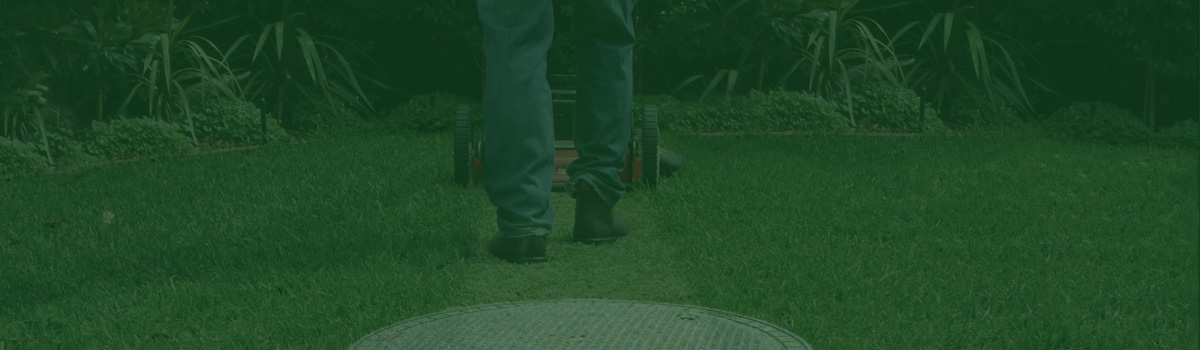
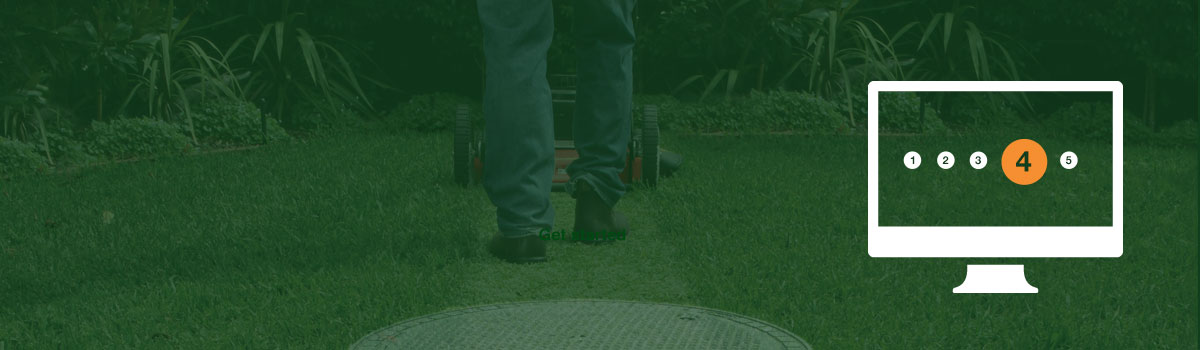
Graf fixes

Changed region(s): [[0.7092, 0.2286, 0.9558, 0.8571], [0.4317, 0.6571, 0.5242, 0.6857]]

diff --git a/brand-pages/less/brand-pages/graf/graf.less b/brand-pages/less/brand-pages/graf/graf.less
@@ -29,47 +29,55 @@ div.brand-pages{
 		@media (min-width: 768px){
 			margin-bottom: 60px;
 		}
-	}
 
 	.white {
 		color: #ffffff;
 	}
+
 	.half {
 		margin-bottom: 30px;	
 	}
+
 	.widget-logo{
 		padding: 0;
 	}
+
 	.discover {
-		background-color: #113e1d;
+		border:solid 1px;
+		background-color: #113e1d; 
+		padding-bottom: 30px;
 		h1 {
 			font-size: 30px;
-			color: white;
+			color: #ffffff;
 			font-weight: 700;
-			max-width: 360px;
 			margin: 0 auto;
-			margin-bottom: 30px;
-			margin-top: 30px;
+			margin:10px;
+			
+			
 			text-align: center;
 			@media (min-width: @screen-sm){
 				max-width: 100%;
-				text-align: left;				
+				text-align: center;
+				margin-bottom: 30px;
+				margin-top: 30px;		
 			}
-			@media (min-width: @screen-md){
-				padding-left: 34%;
-			}
-		p {
-			text-align: center;
-			color: white;
-			max-width: 445px;
-			margin-bottom: 10px;
-			@media (min-width: @screen-sm){
-				text-align: left;
-			}
+		}
+		.rte {
+				p {
+					font-size: 18px;
+					line-height: 24px;
+					font-weight: 500;
+					color: #ffffff;
+					margin: 20px;
+					@media (min-width: @screen-sm){
+						text-align: center;
+
+					}
+				}
 		}
 	}
 }
-	
+
 	.graf-video{
 		margin-bottom: 40px;
 		.widget-video{
@@ -109,17 +117,17 @@ div.brand-pages{
 				.label{
 					text-transform: uppercase;;
 					font-weight: bold;
-				    font-size: 15px;
-				    position: absolute;
-				    left: 50%;
-				    bottom: -34px;
-				    transform: translateX(-50%);
-				    @media (min-width: @screen-sm){
+					font-size: 15px;
+					position: absolute;
+					left: 50%;
+					bottom: -34px;
+					transform: translateX(-50%);
+					@media (min-width: @screen-sm){
 						font-size: 15px;
-				    }
-				    @media (min-width: @screen-md){
-				    	font-size: 18px;
-				    }
+					}
+					@media (min-width: @screen-md){
+						font-size: 18px;
+					}
 				}
 			}
 		}
@@ -199,10 +207,10 @@ div.brand-pages{
 			font-size: 18px;
 			@media (min-width: @screen-sm){
 				margin-top: 0px;
-      }
-      @media (min-width: @screen-md){
-      	margin-top: 60px;
-      }
+			}
+			@media (min-width: @screen-md){
+				margin-top: 60px;
+			}
 		}
 		p {
 			color: #1d1d1d;
@@ -248,9 +256,9 @@ div.brand-pages{
 			padding-bottom: 15px;
 			&.carousel{
 				img { width:165px;
-					}
-			 .slick-slider{ 
-				 	.slick-slide{
+				}
+				.slick-slider{ 
+					.slick-slide{
 						padding: 0 15px;
 						@media (min-width: @screen-sm){
 							padding: 0 38px;
@@ -358,7 +366,6 @@ div.brand-pages{
 		}
 	}
 	.visit-website {
-		border:solid 1px;
 		margin-top: 66px;
 		margin-bottom: 40px;
 		.widget-html-image{
@@ -366,7 +373,6 @@ div.brand-pages{
 				margin: 0;
 			}
 			.rte{
-				border:solid 1px;
 				padding: 30px 0;
 				color: white;
 				background: #113e1d;
@@ -388,8 +394,8 @@ div.brand-pages{
 				font-size: 32px;
 				font-weight: 700;
 				@media (min-width: @screen-sm){
-			    	margin-top: -15px;				
-			    	font-size: 30px;
+					margin-top: -15px;				
+					font-size: 30px;
 				}
 			}
 			p {

diff --git a/brand-pages/css/brand-pages/graf.css b/brand-pages/css/brand-pages/graf.css
@@ -33,48 +33,46 @@ div.brand-pages .container-fluid {
     margin-bottom: 60px;
   }
 }
-div.brand-pages .white {
+div.brand-pages .container-fluid .white {
   color: #ffffff;
 }
-div.brand-pages .half {
+div.brand-pages .container-fluid .half {
   margin-bottom: 30px;
 }
-div.brand-pages .widget-logo {
+div.brand-pages .container-fluid .widget-logo {
   padding: 0;
 }
-div.brand-pages .discover {
+div.brand-pages .container-fluid .discover {
+  border: solid 1px;
   background-color: #113e1d;
+  padding-bottom: 30px;
 }
-div.brand-pages .discover h1 {
+div.brand-pages .container-fluid .discover h1 {
   font-size: 30px;
-  color: white;
+  color: #ffffff;
   font-weight: 700;
-  max-width: 360px;
   margin: 0 auto;
-  margin-bottom: 30px;
-  margin-top: 30px;
+  margin: 10px;
   text-align: center;
 }
 @media (min-width: 768px) {
-  div.brand-pages .discover h1 {
+  div.brand-pages .container-fluid .discover h1 {
     max-width: 100%;
-    text-align: left;
+    text-align: center;
+    margin-bottom: 30px;
+    margin-top: 30px;
   }
 }
-@media (min-width: 992px) {
-  div.brand-pages .discover h1 {
-    padding-left: 34%;
-  }
-}
-div.brand-pages .discover h1 p {
-  text-align: center;
-  color: white;
-  max-width: 445px;
-  margin-bottom: 10px;
+div.brand-pages .container-fluid .discover .rte p {
+  font-size: 18px;
+  line-height: 24px;
+  font-weight: 500;
+  color: #ffffff;
+  margin: 20px;
 }
 @media (min-width: 768px) {
-  div.brand-pages .discover h1 p {
-    text-align: left;
+  div.brand-pages .container-fluid .discover .rte p {
+    text-align: center;
   }
 }
 div.brand-pages .graf-video {
@@ -375,7 +373,6 @@ div.brand-pages .downloads .widget-big-button a:hover .icon:after {
   transform: scale(0.75);
 }
 div.brand-pages .visit-website {
-  border: solid 1px;
   margin-top: 66px;
   margin-bottom: 40px;
 }
@@ -383,7 +380,6 @@ div.brand-pages .visit-website .widget-html-image .image {
   margin: 0;
 }
 div.brand-pages .visit-website .widget-html-image .rte {
-  border: solid 1px;
   padding: 30px 0;
   color: white;
   background: #113e1d;

diff --git a/brand-pages/templates/brand-pages/graf.php b/brand-pages/templates/brand-pages/graf.php
@@ -16,11 +16,11 @@
 <!-- End: HTML Widget-->
     <div class="widget-html-image discover">
           <div class="rte">
-            <h1>Graf Underground Systems</h1>
+              <h1>Graf Underground Systems</h1>
 
-            <p>There is one problem with traditional tanks. The space they take up in a backyard. The Graf water harvesting 
-            systems are the smartest way to collect rainwater for use around the home. Whether you simply require extra garden 
-            water or a water saving solution for your toilet and laundry, the design of the Graf system makes it easy.</p> 
+              <p>There is one problem with traditional tanks. The space they take up in a backyard. The Graf water harvesting 
+              systems are the smartest way to collect rainwater for use around the home. Whether you simply require extra garden 
+              water or a water saving solution for your toilet and laundry, the design of the Graf system makes it easy.</p> 
           </div>
         </div>
 
@@ -76,8 +76,9 @@
       <div class="col-xs-12">
         <!-- Begin: HTML Widget-->
         <div class="widget-html-image">
-          <figure class="image"><img src="images/brand-pages/graf/rainwater-tank-selector.jpg" width="1200px" alt="rainwater tank selector"/></figure> 
-          <div class="rte"><img src="images/brand-pages/graf/monitor-icon.png" alt="selector icon" ></div>
+          <figure class="image">
+            <img src="images/brand-pages/graf/rainwater-tank-selector.jpg" width="1200px" alt="rainwater tank selector"/>
+          </figure> 
           <div class="rte">
             <h3>Rainwater Tank Selector</h3>
             <p>How to choose your tank in<br> 5 easy steps</p>
@@ -289,3 +290,4 @@
       </div>
     </div>        
   </div>
+</div>
